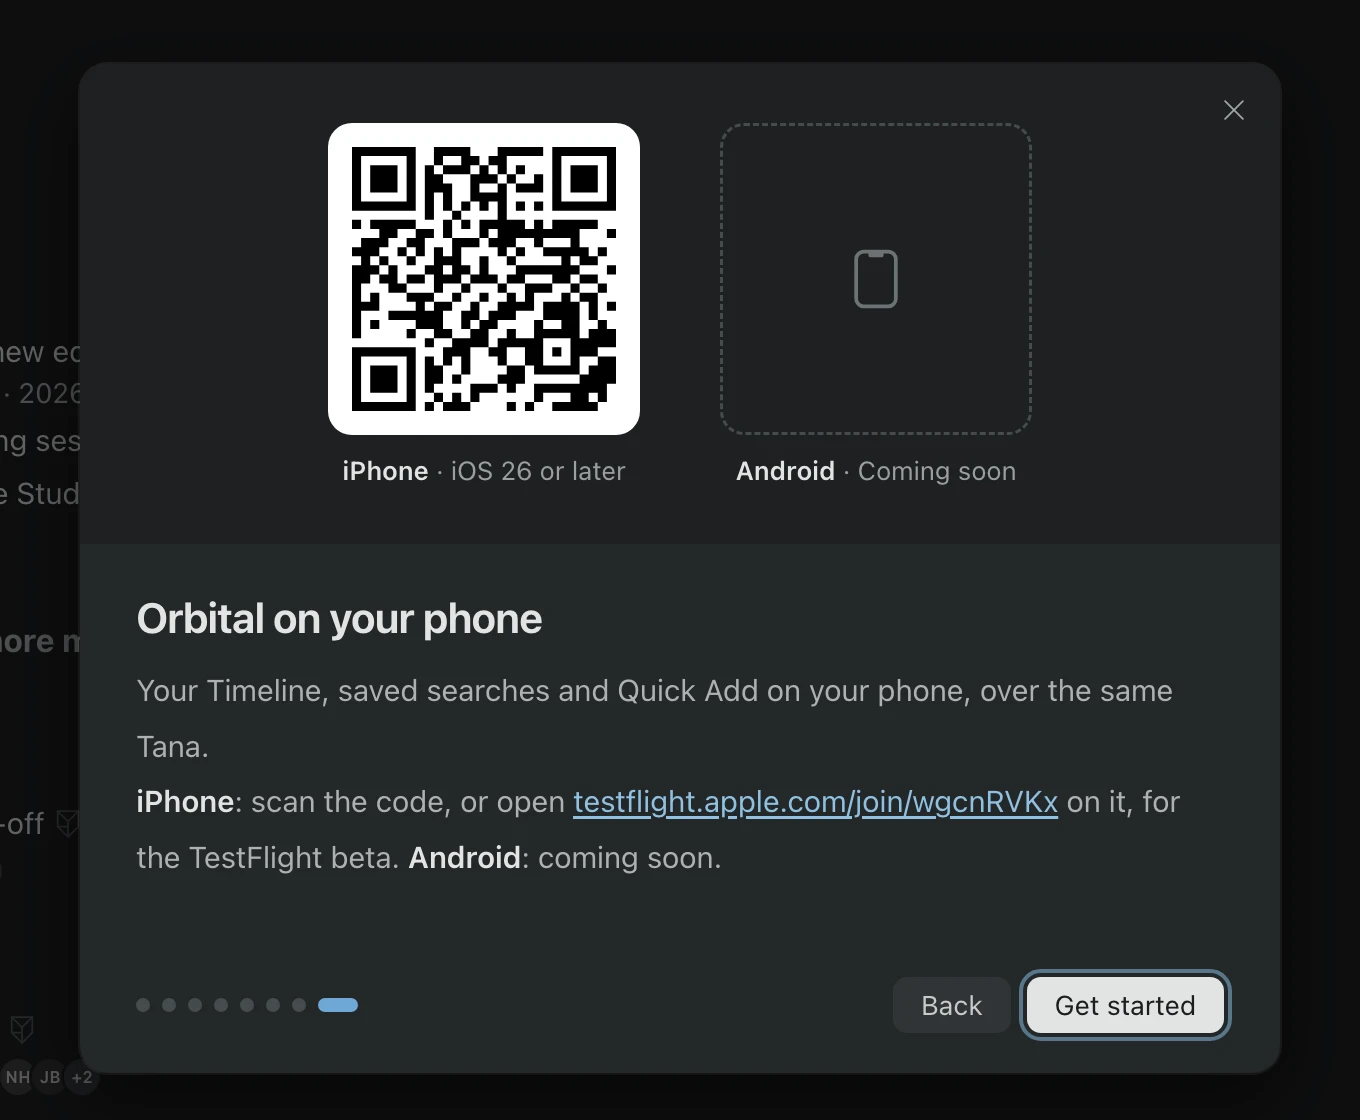
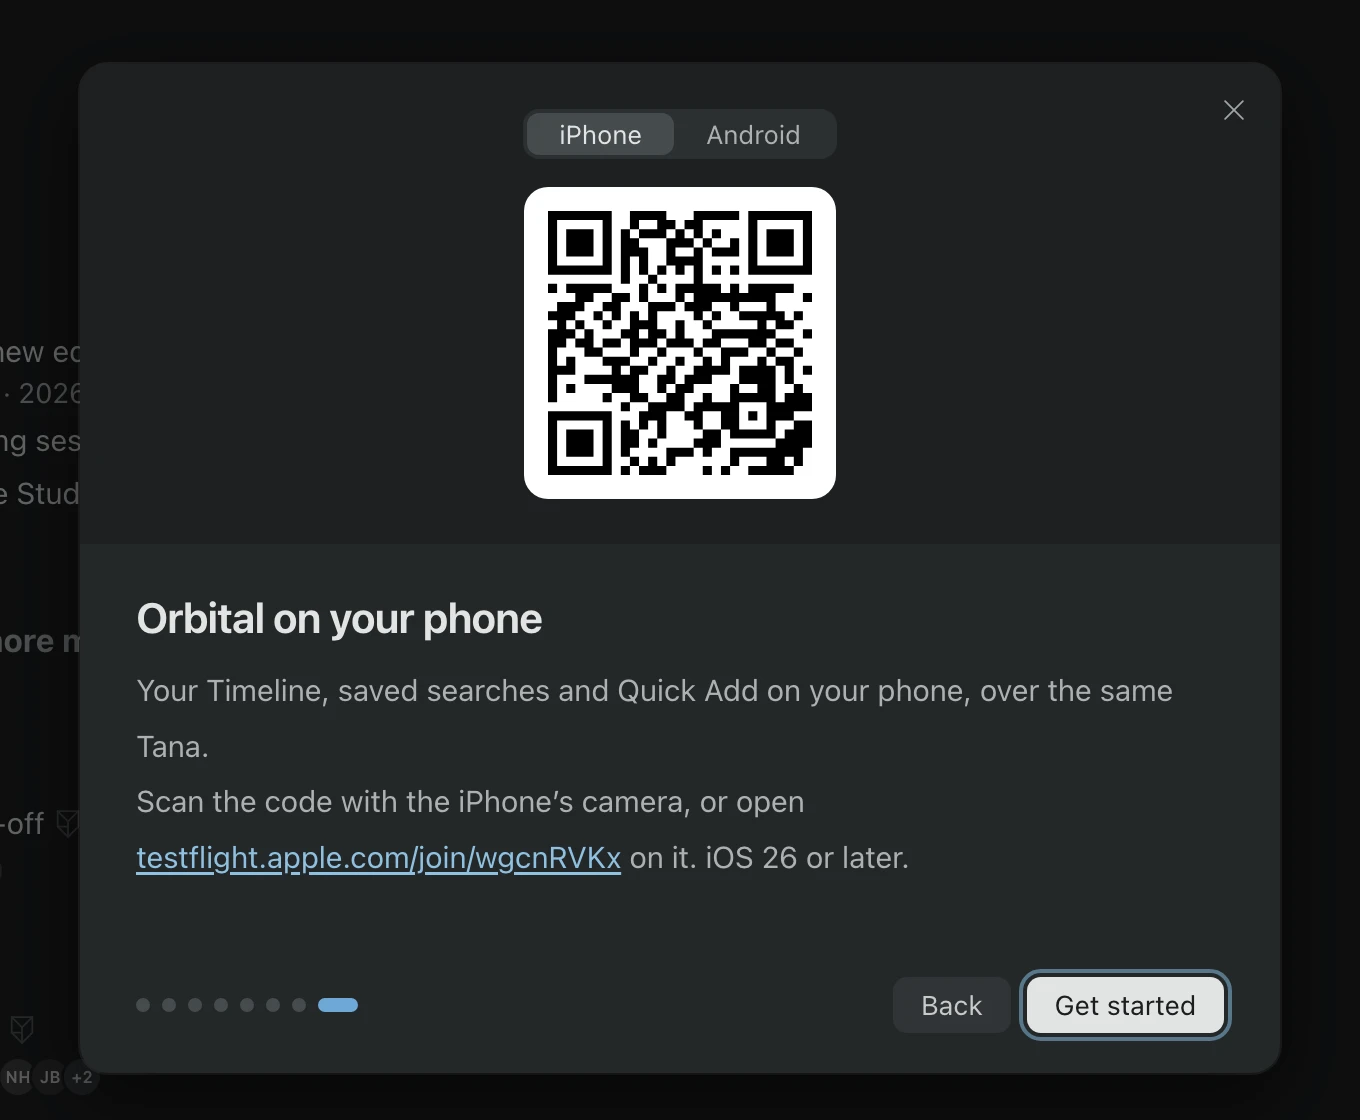
Install mobile app: pick iPhone or Android, one place shows the one picked
The phone page no longer puts the phones side by side, where a second code would one day sit beside the first.
A choice of phone at the top, the Settings window's segmented control as a radio group (one tab stop; ← and →
switch inside it without paging the tour; a click or Space picks), over one place: iPhone, picked to begin with,
shows the TestFlight code and its link, iOS 26 or later; Android shows "Coming soon" in words, with no code,
link or button. The dashed tile and its phone glyph are gone. The card keeps its size between the two.

The flow checks both states in both themes, the tab stop, the arrows keeping the tour on its page and the card's
size; the manual's start chapter has both states as pictures in both themes.

diff --git a/scripts/flow-check.js b/scripts/flow-check.js
@@ -535,13 +535,20 @@ flow('golden path: Quick Add Task makes a typed task for someone', async (p) => 
 });
 
 // 16b. Cmd+K Install mobile app (renderer/overlays.js openHelp('mobile'), main.js openOverlay): the Help tour opens on
-// its phone page, in either theme: iPhone with the code drawn and the TestFlight link, which opens in the browser
-// through main and leaves the tour where it is, and Android labelled coming soon with nothing to press or follow;
-// without the page asked for, the tour starts at the beginning
+// its phone page, in either theme, with iPhone chosen: its code drawn and the TestFlight link, which opens in the
+// browser through main and leaves the tour where it is. The choice is one radio group over one place: Android shows
+// coming soon and no code, link or button; the arrows switch inside the group and do not page or close the tour, and
+// the group is one tab stop. Without the page asked for, the tour starts at the beginning
 const HELP_API = String.raw`if (location.pathname === '/help.html') { window.__opened = [];
   window.api = { openExternal: async (url) => { __opened.push(url); }, closeOverlay: () => {}, chatgptStatus: async () => ({ signedIn: false }) }; }`;
 flow('Install mobile app opens the Help tour on its phone page: iPhone\u2019s code and link, Android coming soon', async (p) => {
   const link = fs.readFileSync(path.join(root, 'help.html'), 'utf8').match(/id="helpMobileLink" href="([^"]+)"/)[1];
+  // what the page shows: the chosen phone, the radios' state and tab stops, and what can be seen of the code, links and buttons
+  const shown = () => p.js(`(() => { const seen = (e) => !!e.offsetParent, page = document.getElementById('help-mobile');
+    return { chosen: [...page.querySelectorAll('[role=radio]')].map((b) => [b.textContent, b.getAttribute('aria-checked'), b.tabIndex]),
+      code: [...page.querySelectorAll('img')].filter(seen).length, links: [...page.querySelectorAll('a')].filter(seen).map((a) => a.href),
+      soon: [...page.querySelectorAll('.hv-soon, p')].filter(seen).map((e) => e.innerText.replace(/\\s+/g, ' ').trim()).filter((t) => /soon/i.test(t)),
+      buttons: [...page.querySelectorAll('.hv button')].filter(seen).length, focus: document.activeElement.textContent, page: document.querySelector('.hpage.on').id }; })()`);
   await p.beforeLoad(HELP_API);
   for (const theme of ['light', 'dark']) {
     await p.open('help.html?at=mobile&theme=' + theme);
@@ -549,9 +556,24 @@ flow('Install mobile app opens the Help tour on its phone page: iPhone\u2019s co
     assert.deepEqual(await p.js('[document.querySelector(".hpage.on").id, document.getElementById("helpNext").textContent, document.documentElement.dataset.theme || "light"]'),
       ['help-mobile', 'Get started', theme], 'it opens on its last page, the iPhone app, in the theme asked for');
     await p.waitFor('(() => { const i = document.querySelector("#help-mobile img"); return i.complete && i.naturalWidth > 0; })()', 'the code to be drawn');
-    assert.deepEqual(await p.js('[...document.querySelectorAll("#help-mobile .hv-os figcaption")].map((c) => c.textContent)'), ['iPhone · iOS 26 or later', 'Android · Coming soon'], 'a choice of two phones, each with its state');
-    assert.deepEqual(await p.js('[document.querySelectorAll("#helpAndroid :is(a, button, img, [tabindex])").length, [...document.querySelectorAll("#help-mobile a")].map((a) => a.href)]'), [0, [link]],
-      'Android has nothing to scan, press or follow; the one link on the page is the iPhone\u2019s');
+    const ios = await shown();
+    const card = () => p.js('(() => { const r = document.querySelector("#help .card").getBoundingClientRect(); return [Math.round(r.width), Math.round(r.height)]; })()');
+    const iosCard = await card();
+    assert.deepEqual([ios.chosen, ios.code, ios.links, ios.soon], [[['iPhone', 'true', 0], ['Android', 'false', -1]], 1, [link], []], 'iPhone chosen: one code and its link, one tab stop');
+    assert.match(await p.js('document.querySelector("#help-mobile p[data-os=ios]").textContent'), /iOS 26 or later/, 'with the iOS it needs');
+    await p.js('document.querySelector("#help-mobile [data-os=android][role=radio]").click(); 1');
+    const android = await shown();
+    assert.deepEqual([android.chosen, android.code, android.links, android.buttons, android.soon.length > 0], [[['iPhone', 'false', -1], ['Android', 'true', 0]], 0, [], 2, true],
+      'Android chosen: coming soon in the same place, and no code, link or button besides the choice');
+    assert.deepEqual(await card(), iosCard, 'the card keeps its size from one phone to the other: nothing moves under the pointer');
+    // by keyboard: the chosen radio has focus, the arrows switch and keep the tour on this page
+    await p.js('document.querySelector("#help-mobile [aria-checked=true]").focus(); 1');
+    await p.key('←');
+    assert.deepEqual(await shown().then((s) => [s.chosen[0][1], s.focus, s.code, s.page]), ['true', 'iPhone', 1, 'help-mobile'], '\u2190 picks iPhone again, focus with it, and the tour stays');
+    await p.key('→');
+    assert.deepEqual(await shown().then((s) => [s.chosen[1][1], s.focus, s.code, s.page]), ['true', 'Android', 0, 'help-mobile'], '\u2192 picks Android, and the tour stays on its last page');
+    await p.key('→'); await p.key('Space');
+    assert.deepEqual(await shown().then((s) => [s.chosen[0][1], s.focus, s.page]), ['true', 'iPhone', 'help-mobile'], '\u2192 wraps round to iPhone, and Space keeps it');
     await p.js('document.getElementById("helpMobileLink").click(); 1'); await settle(p, 100);
     assert.deepEqual(await p.js('[__opened, location.pathname, document.querySelector(".hpage.on").id]'), [[link], '/help.html', 'help-mobile'], 'the link opens in the browser and the tour stays');
   }

diff --git a/styles.css b/styles.css
@@ -1707,13 +1707,18 @@ body.overlaypage, [data-theme="dark"] body.overlaypage { background: transparent
 /* 7 Sign in with ChatGPT (issue #669): the sign-in at the centre, the features it turns on around it on an orbit, each
    lit in turn as if the moon of page 1 passed it. Still under reduced motion: the ring, the core and the five names. */
 .hv-ai, .hv-phone { align-items: center; padding: 0; }
-.hv-phone { gap: 40px; } /* the choice of phone: iPhone with its code, Android still to come */
-.hv-os { margin: 0; display: flex; flex-direction: column; align-items: center; gap: 10px; font-size: 13px; color: #6b6f73; }
-.hv-os b { font-weight: 600; color: #1c2024; }
-.hv-phone img, .hv-soon { width: 156px; height: 156px; padding: 12px; border-radius: 12px; }
-.hv-phone img { background: #fff; } /* the TestFlight link (help-testflight.svg, qrencode): dark on white in either theme, as a camera reads it */
-.hv-soon { display: flex; align-items: center; justify-content: center; border: 1.5px dashed #c9ccd0; color: #a6a9ad; } /* Android: nothing to scan yet */
-.hv-soon svg { width: 34px; height: 34px; }
+/* 8 the phone: a choice of iPhone or Android (the Settings window's segmented control), then one place for the chosen
+   one: the iPhone's code, Android's "Coming soon". One code at a time, however many phones there come to be. */
+.hv-phone { flex-direction: column; gap: 14px; }
+.hseg { display: inline-flex; padding: 2px; border-radius: 8px; background: #e6e8ea; }
+.hseg button { padding: 3px 16px; border: 0; border-radius: 6px; background: none; font: inherit; font-size: 13px; color: #45484c; cursor: pointer; }
+.hseg button.on { background: #fff; color: #1c2024; box-shadow: 0 0 0 0.5px rgba(0, 0, 0, .12), 0 1px 2px rgba(0, 0, 0, .12); }
+.hseg button:focus-visible { outline: 2px solid #508fbb; outline-offset: 1px; }
+.hv-os { width: 156px; height: 156px; }
+.help [data-os][hidden] { display: none; }
+.hv-phone img { display: block; width: 156px; height: 156px; padding: 12px; background: #fff; border-radius: 12px; } /* the TestFlight link (help-testflight.svg, qrencode): dark on white in either theme, as a camera reads it */
+.hv-soon { width: 240px; display: flex; flex-direction: column; align-items: center; justify-content: center; gap: 4px; font-size: 13px; color: #6b6f73; text-align: center; } /* Android: words only, nothing to scan */
+.hv-soon b { font-size: 15px; font-weight: 600; color: #1c2024; }
 .help p a { color: #3a75a3; text-underline-offset: 2px; } /* the same TestFlight link, to open on the phone (AA on the white card) */
 .hv-aiorbit { position: relative; width: min(560px, 100%); height: 220px; }
 .hv-airing { position: absolute; left: 50%; top: 50%; width: 72%; height: 130px; margin: -65px 0 0 -36%; border: 1.5px solid #d4d6d8; border-radius: 50%; }
@@ -1809,9 +1814,11 @@ body.overlaypage, [data-theme="dark"] body.overlaypage { background: transparent
 [data-theme="dark"] .help .hdots button { background: #454b4e; }
 [data-theme="dark"] .help .hdots button.on { background: #6ea8d6; }
 [data-theme="dark"] .help p a { color: #8fc1e1; }
-[data-theme="dark"] .hv-os { color: #9a9ea0; }
-[data-theme="dark"] .hv-os b { color: #e2e4e4; }
-[data-theme="dark"] .hv-soon { border-color: #454b4e; color: #6c7275; }
+[data-theme="dark"] .hseg { background: #2b2f31; }
+[data-theme="dark"] .hseg button { color: #adb1b2; }
+[data-theme="dark"] .hseg button.on { background: #454b4e; color: #e2e4e4; box-shadow: none; }
+[data-theme="dark"] .hv-soon { color: #9a9ea0; }
+[data-theme="dark"] .hv-soon b { color: #e2e4e4; }
 [data-theme="dark"] .hv { --hv-ink: #d0d2d2; --hv-box: #454b4e; --hv-active: #343a3d; --hv-run: #2f4a5f; background: #1d2022; color: #d0d2d2; }
 [data-theme="dark"] .hv :is(.hv-pal, .hv-pane, .hv-quick, .hv-drop-menu, .hv-press), [data-theme="dark"] .hv-keys kbd { background: #2b2f31; color: #d0d2d2; box-shadow: 0 0 0 1px rgba(255, 255, 255, .08); }
 [data-theme="dark"] .hv .hv-input { border-bottom-color: #3a3f42; }

diff --git a/manual/start.html b/manual/start.html
@@ -169,15 +169,16 @@
     <h2 id="phone" data-short="On your phone" data-k="iphone ios android mobile phone install testflight beta qr code download app coming soon">Orbital on your phone</h2>
     <div class="split">
       <div>
-        <p>Orbital on your phone puts your Timeline, saved searches and Quick Add in your pocket, over the same Tana. Press <kbd>⌘K</kbd> and pick <b>Install mobile app</b> to see the choice: it opens the Help tour on its last page, which the tour also shows by itself the first time you sign in.</p>
+        <p>Orbital on your phone puts your Timeline, saved searches and Quick Add in your pocket, over the same Tana. Press <kbd>⌘K</kbd> and pick <b>Install mobile app</b>: it opens the Help tour on its last page, which the tour also shows by itself the first time you sign in. At the top, pick your phone, <b>iPhone</b> or <b>Android</b>, with a click or with <kbd>←</kbd> and <kbd>→</kbd> once the choice has the focus; the page below shows the one you picked.</p>
         <ul>
-          <li><b>iPhone</b>: a beta in Apple's TestFlight, for iOS 26 or later. Scan the code with the iPhone's camera, or open <a href="https://testflight.apple.com/join/wgcnRVKx">testflight.apple.com/join/wgcnRVKx</a> on it, and TestFlight asks to install the app.</li>
-          <li><b>Android</b>: coming soon. Its place on the page says so; there is nothing to download yet.</li>
+          <li><b>iPhone</b> (picked to begin with): a beta in Apple's TestFlight, for iOS 26 or later. Scan the code with the iPhone's camera, or open <a href="https://testflight.apple.com/join/wgcnRVKx">testflight.apple.com/join/wgcnRVKx</a> on it, and TestFlight asks to install the app.</li>
+          <li><b>Android</b>: coming soon. There is nothing to install yet, so the page says so and shows no code or link.</li>
         </ul>
         <figure><img data-m="start-install-mobile" alt="The Cmd+K palette with Install mobile app under Help: iPhone from TestFlight, Android coming soon"><figcaption><kbd>⌘K</kbd> <b>Install mobile app</b>, under Help.</figcaption></figure>
+        <figure><img data-m="start-help-android" alt="The same page with Android picked: Coming soon, nothing to install on Android yet"><figcaption>Android picked: coming soon.</figcaption></figure>
         <p>There is no iPad version.</p>
       </div>
-      <figure><img data-m="start-help-iphone" alt="The Help tour's last page, Orbital on your phone: the iPhone's code to scan with its TestFlight link, and Android coming soon"><figcaption>iPhone: scan the code or open the link. Android: coming soon.</figcaption></figure>
+      <figure><img data-m="start-help-iphone" alt="The Help tour's last page, Orbital on your phone, with iPhone picked: the code to scan and its TestFlight link, iOS 26 or later"><figcaption>iPhone picked: scan the code or open the link.</figcaption></figure>
     </div>
     <div class="try"><span class="seq"><kbd>⌘K</kbd><i>→</i> type <b>install</b> <i>→</i><kbd>↩</kbd></span></div>
   </section>
@@ -250,5 +251,4 @@
 </main>
 </body>
 </html>
-
 

diff --git a/help.html b/help.html
@@ -114,13 +114,18 @@
         <p class="hact" id="helpAI"><button id="helpChatGPT" class="button">Sign in with ChatGPT</button> or later from <kbd>⌘K</kbd></p>
       </section>
       <section class="hpage" id="help-mobile">
-        <div class="hv hv-phone" aria-hidden="true">
-          <figure class="hv-os"><img src="help-testflight.svg" alt=""><figcaption><b>iPhone</b> · iOS 26 or later</figcaption></figure>
-          <figure class="hv-os" id="helpAndroid"><span class="hv-soon"><i data-icon="mobile"></i></span><figcaption><b>Android</b> · Coming soon</figcaption></figure>
+        <div class="hv hv-phone">
+          <div class="hseg" role="radiogroup" aria-label="Phone">
+            <button type="button" role="radio" data-os="ios" aria-checked="true" class="on">iPhone</button>
+            <button type="button" role="radio" data-os="android" aria-checked="false" tabindex="-1">Android</button>
+          </div>
+          <div class="hv-os" data-os="ios"><img src="help-testflight.svg" alt="Code for the iPhone app in TestFlight"></div>
+          <div class="hv-os hv-soon" data-os="android" hidden><b>Coming soon</b>Nothing to install on Android yet</div>
         </div>
         <h2>Orbital on your phone</h2>
         <p>Your Timeline, saved searches and Quick Add on your phone, over the same Tana.</p>
-        <p><b>iPhone</b>: scan the code, or open <a id="helpMobileLink" href="https://testflight.apple.com/join/wgcnRVKx">testflight.apple.com/join/wgcnRVKx</a> on it, for the TestFlight beta. <b>Android</b>: coming soon.</p>
+        <p data-os="ios">Scan the code with the iPhone’s camera, or open <a id="helpMobileLink" href="https://testflight.apple.com/join/wgcnRVKx">testflight.apple.com/join/wgcnRVKx</a> on it. iOS 26 or later.</p>
+        <p data-os="android" hidden>Orbital for Android is coming soon.</p>
       </section>
     </div>
     <footer class="hfoot">

diff --git a/help.js b/help.js
@@ -38,6 +38,25 @@ document.getElementById('helpMobileLink').onclick = (e) => {
   e.preventDefault();
   helpApi.openExternal(e.currentTarget.href).catch(() => {});
 };
+// The phone page's choice (#help-mobile): iPhone or Android, one at a time in one place, so a second code later takes
+// the same spot. A radio group: one tab stop, the arrows switch inside it (and do not page the tour), Space and a click pick.
+const helpOS = [...document.querySelectorAll('#help-mobile [role="radio"]')];
+function showHelpOS(os, focus) {
+  for (const b of helpOS) {
+    const on = b.dataset.os === os;
+    b.classList.toggle('on', on); b.setAttribute('aria-checked', String(on)); b.tabIndex = on ? 0 : -1;
+    if (on && focus) b.focus();
+  }
+  for (const part of document.querySelectorAll('#help-mobile [data-os]:not([role="radio"])')) part.hidden = part.dataset.os !== os;
+}
+for (const b of helpOS) {
+  b.onclick = () => showHelpOS(b.dataset.os);
+  b.onkeydown = (e) => {
+    if (e.key !== 'ArrowLeft' && e.key !== 'ArrowRight') return;
+    e.preventDefault(); e.stopPropagation();
+    showHelpOS(helpOS[(helpOS.indexOf(b) + (e.key === 'ArrowRight' ? 1 : helpOS.length - 1)) % helpOS.length].dataset.os, true);
+  };
+}
 // The ChatGPT page: sign in with ChatGPT happens on its ⌘K page in the page that asked (renderer/agent.js startChatGPTLogin).
 // Signed in already, the line says so instead, at the button's height: the card is as tall as its tallest page, so a
 // line that came or went would move it after it had opened.

diff --git a/manual/scenes/start.js b/manual/scenes/start.js
@@ -24,8 +24,11 @@ module.exports = [
   { name: 'start-help', video: true, clip: [300, 40, 680, 560], setup: [{ wait: 800 }, help, { wait: 300 }], steps: [
     { wait: 1800 }, { key: '→' }, { wait: 2600 }, { key: '→' }, { wait: 2200 }, { key: '→' }, { wait: 2000 }, { key: '→' }, { wait: 2400 },
   ] },
-  // the tour's last page, where Install mobile app opens it: iPhone's TestFlight code and link, Android coming soon
+  // the tour's last page, where Install mobile app opens it: iPhone chosen, its TestFlight code and link
   { name: 'start-help-iphone', clip: [300, 40, 680, 560], setup: [{ wait: 800 }, helpMobile, { wait: 900 }] },
+  // the same page with Android chosen in its selector: coming soon, nothing to install
+  { name: 'start-help-android', clip: [300, 40, 680, 560], setup: [{ wait: 800 }, helpMobile, { wait: 900 },
+    { page: 'shell', js: "document.getElementById('mc-help').contentDocument.querySelector('[role=radio][data-os=android]').click()" }, { wait: 300 }] },
   // Cmd+K Install mobile app, under Help
   { name: 'start-install-mobile', setup: [{ wait: 900 }, { key: '⌘K' }, { type: 'install' }, { wait: 400 }, bare], clip: { sel: '#palette .card', pad: 14 } },
   // the loader: the page building itself, then the rows rising in
@@ -45,7 +48,6 @@ module.exports = [
   ] },
   { name: 'start-logout', setup: [library, { wait: 800 }, { key: '⌘K' }, { type: 'log out' }, { key: '↩' }, { wait: 500 }, bare], clip: { sel: '#palette .card', pad: 28 } },
 ];
-
 
 
 

diff --git a/docs/OUTLINER.md b/docs/OUTLINER.md
@@ -1299,11 +1299,13 @@ main lays two pages over the whole window, above every pane, as a transparent vi
 keeps its caret and gets the keys back when the overlay closes, with what it had to say (`onOverlayClosed`).
 
 - **Help** (help.html): eight short pages of the basics, each with a CSS loop of the keys at work; the rest is found in
-  Cmd+K as you go. The last page, Orbital on your phone (`#help-mobile`), is a choice of two: **iPhone · iOS 26 or
-  later**, a code to scan that joins its TestFlight beta (help-testflight.svg, made by `qrencode -t SVG -m 0
-  --svg-path`) and the same public link, https://testflight.apple.com/join/wgcnRVKx, to open on the phone (it opens in
-  the browser through main, `openExternal`); and **Android · Coming soon**, a dashed empty tile with nothing to scan,
-  press or follow until there is a release.
+  Cmd+K as you go. The last page, Orbital on your phone (`#help-mobile`), opens with a choice of phone, iPhone or
+  Android: a radio group drawn as the Settings window's segmented control (one tab stop; ← and → switch inside it and
+  do not page the tour; a click or Space picks), over one place that shows the phone picked, so there is only ever one
+  code on screen. **iPhone**, picked to begin with: a code to scan that joins its TestFlight beta (help-testflight.svg,
+  made by `qrencode -t SVG -m 0 --svg-path`) and the same public link, https://testflight.apple.com/join/wgcnRVKx, to
+  open on the phone (it opens in the browser through main, `openExternal`), iOS 26 or later. **Android**: "Coming
+  soon" in words, with no code, link or button until there is a release. The card keeps its size between the two.
   Cmd+K Install mobile app opens the tour on that page (`openHelp('mobile')`, main.js `openOverlay` passing `at=mobile`
   to help.html, and nothing else it is sent). The page before it offers Sign in with ChatGPT: the tour closes and its page opens the Cmd+K ChatGPT page
   and starts the sign-in (`onOverlayClosed` `chatgpt`); signed in already, it says so instead. Opened by Cmd+K Help, the ?

diff --git a/docs/TESTING.md b/docs/TESTING.md
@@ -55,9 +55,10 @@ From fastest to slowest. Each catches what the one before it cannot.
    - the Settings window (settings.html, on a stand-in for main) stores what you pick, keeps the newest answer when an
      older read lands after it, keeps the keyboard on a switch through its redraw, and masks your email and hidden
      titles in demo mode.
-   - Cmd+K Install mobile app: the Help tour (help.html) opens on its phone page in either theme, a choice of iPhone
-     (iOS 26 or later, the code drawn, its TestFlight link opening in the browser through main while the tour stays)
-     and Android (coming soon, with nothing to press or follow). `scripts/renderer-check.js` decodes
+   - Cmd+K Install mobile app: the Help tour (help.html) opens on its phone page in either theme with iPhone picked
+     (iOS 26 or later, one code drawn, its TestFlight link opening in the browser through main while the tour stays);
+     picking Android shows coming soon with no code, link or button, in a card of the same size; the choice is one tab
+     stop whose arrows switch phones without paging the tour. `scripts/renderer-check.js` decodes
      the code itself (help-testflight.svg) and holds it to that link and to the README's and the manual's, so a new
      TestFlight link has to come with a new code.
 
